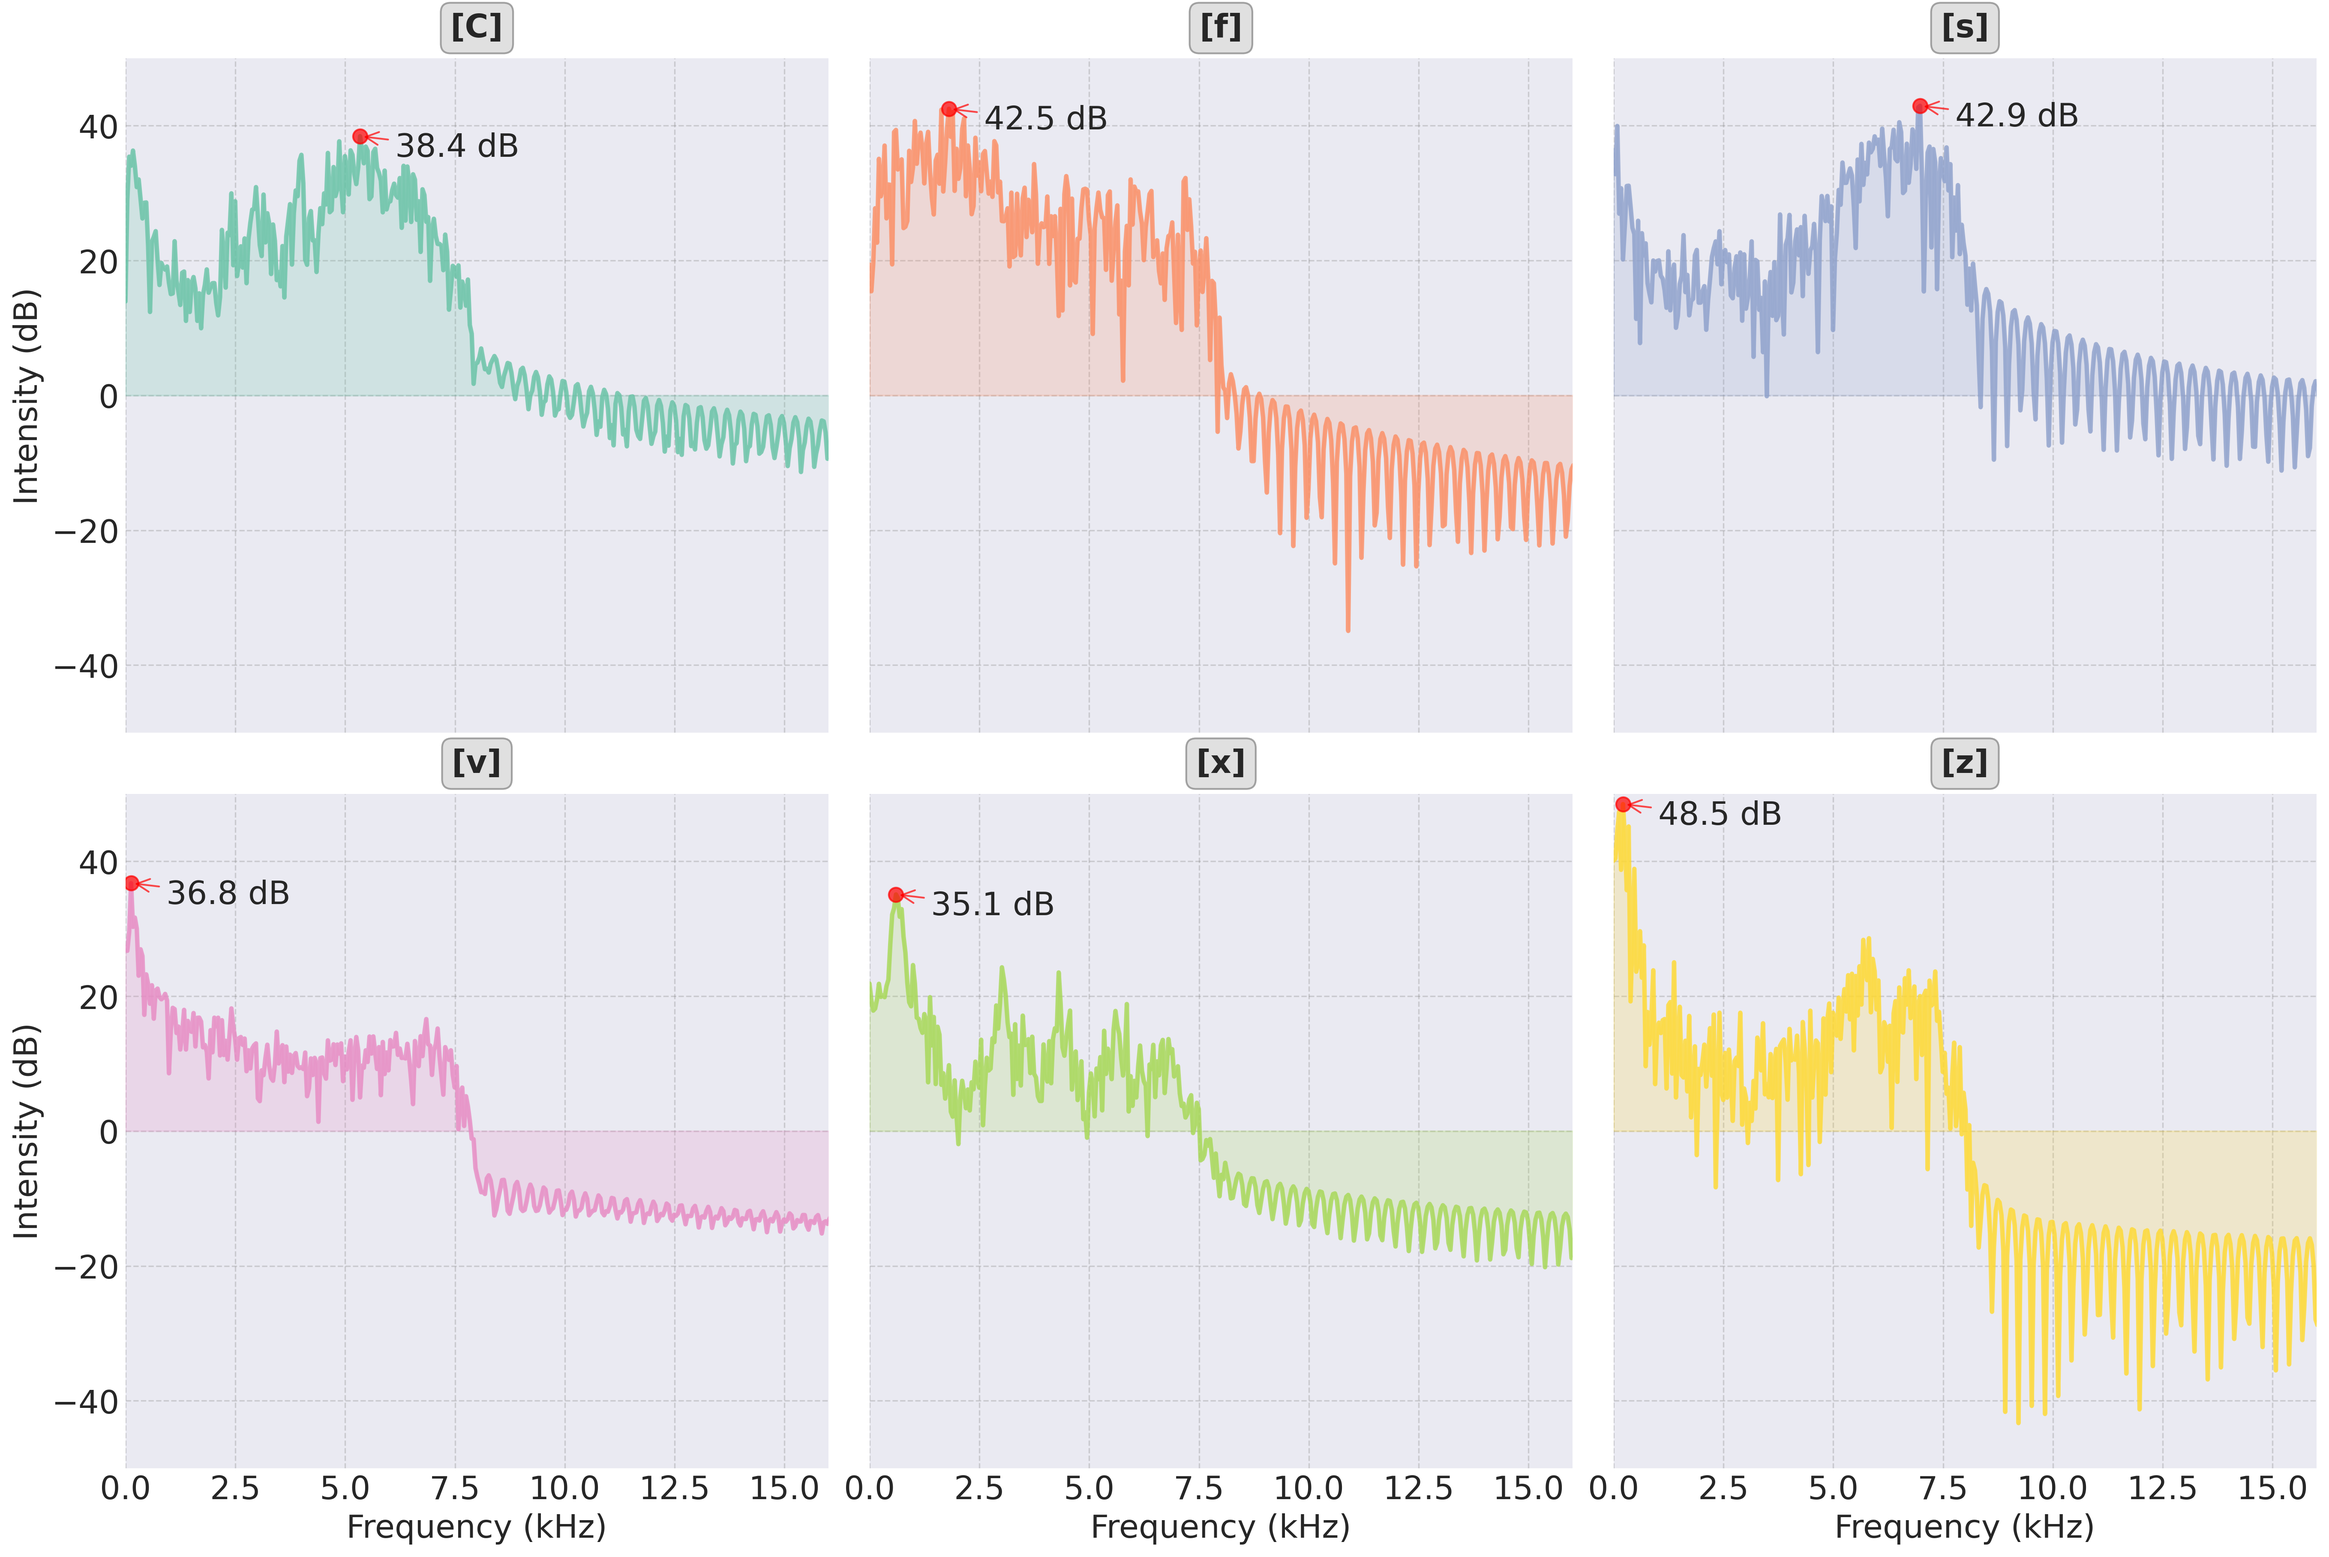
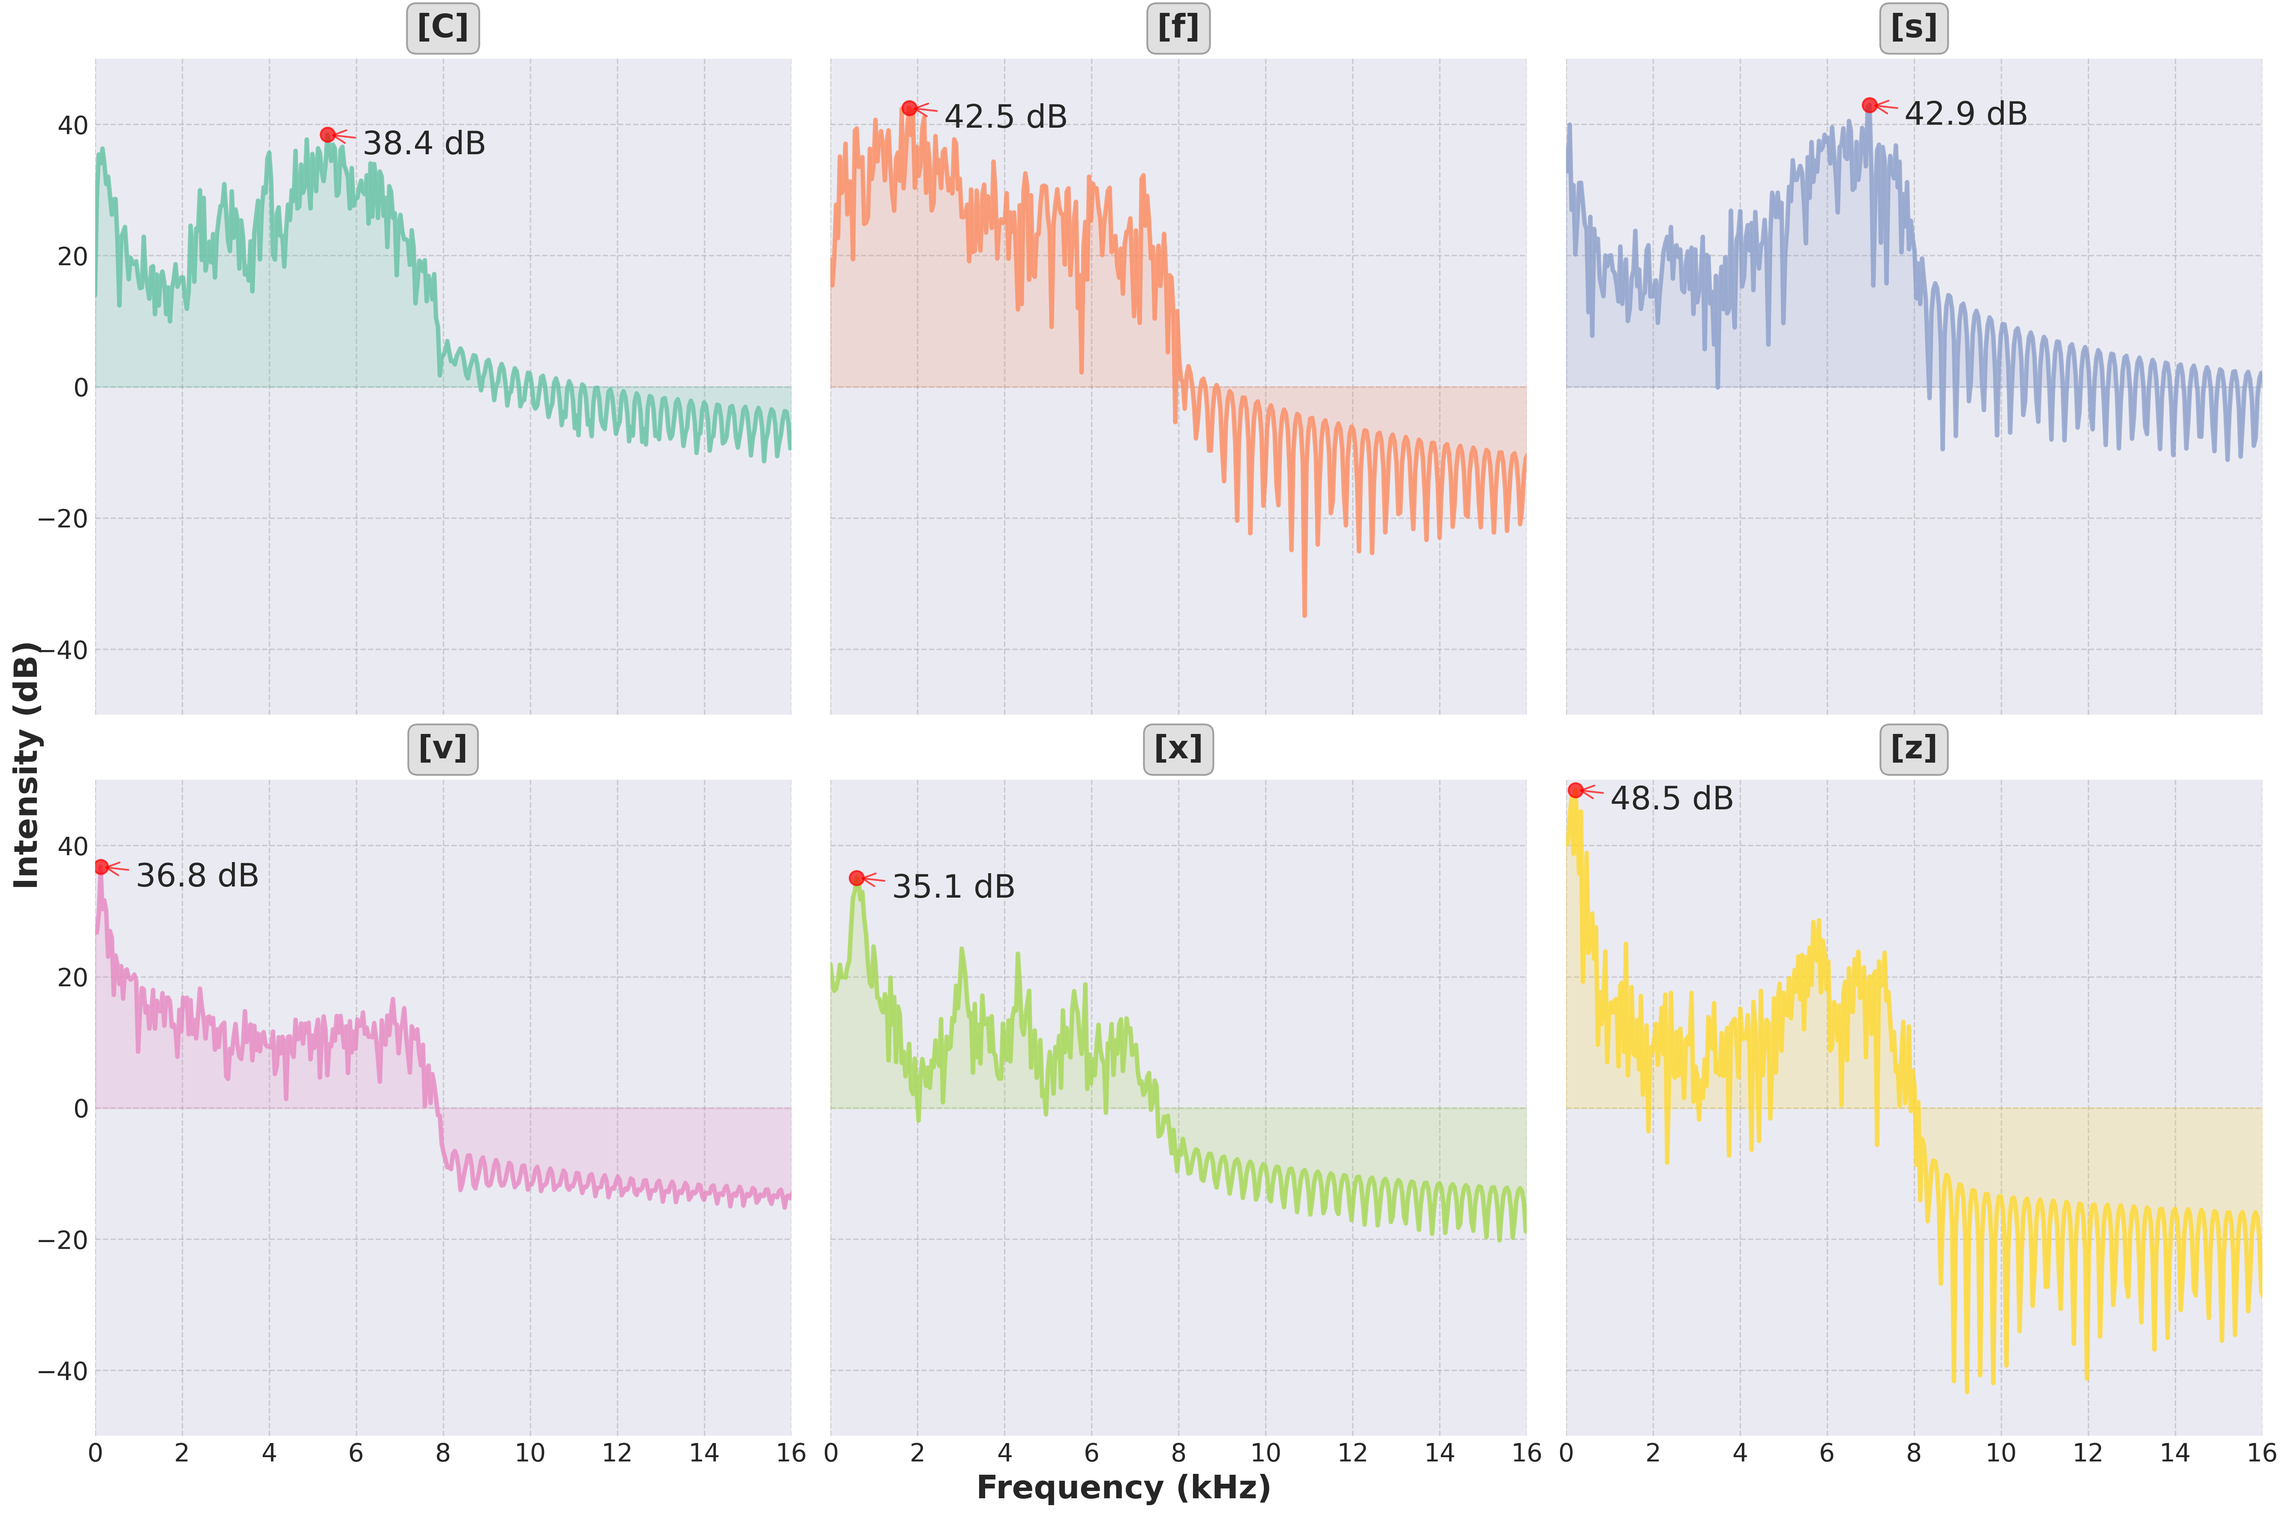
plot fricatives

diff --git a/script/fricative.py b/script/fricative.py
@@ -14,11 +14,12 @@ print(f"Fricatives: {fricatives}")
 colors = sns.color_palette("Set2", len(fricatives))
 fricative_colors = dict(zip(fricatives, colors))
 
-fig, axes = plt.subplots(2, 3, figsize=(18, 12), constrained_layout=True)
+fig, axes = plt.subplots(2, 3, figsize=(18, 12))
 if len(fricatives) > 6:
     fricatives_to_plot = fricatives[:6]
 else:
     fricatives_to_plot = fricatives
+    
 for idx, fricative in enumerate(fricatives_to_plot):
     row = idx // 3
     col = idx % 3
@@ -35,22 +36,20 @@ for idx, fricative in enumerate(fricatives_to_plot):
                                             edgecolor="gray", alpha=0.7))
     
     if row == 1:
-        axes[row, col].set_xlabel('Frequency (kHz)', fontsize=18)
+        axes[row, col].set_xlabel('')
     else:
         axes[row, col].set_xlabel('')
         axes[row, col].set_xticklabels([])
-    
+    if col != 0:
+        axes[row, col].set_ylabel('')
+        axes[row, col].set_yticklabels([])
+    else:
+        axes[row, col].set_ylabel('')
     axes[row, col].set_xlim(0, 16)
     axes[row, col].set_ylim(-50, 50)
     
     axes[row, col].grid(True, alpha=0.3, linestyle='--', color='gray')
-    
-    if col == 0:
-        axes[row, col].set_ylabel('Intensity (dB)', fontsize=18)
-    else:
-        axes[row, col].set_ylabel('')
-        axes[row, col].set_yticklabels([])
-    axes[row, col].tick_params(axis='both', labelsize=18)
+    axes[row, col].tick_params(axis='both', labelsize=14)
 
     max_amp = fricative_data['Amplitude'].max()
     min_amp = fricative_data['Amplitude'].min()
@@ -62,10 +61,14 @@ for idx, fricative in enumerate(fricatives_to_plot):
                            xytext=(max_freq_at_max_amp + 0.8, max_amp - 3),
                            fontsize=18,
                            arrowprops=dict(arrowstyle='->', color='red', alpha=0.7))
+
 for idx in range(len(fricatives_to_plot), 6):
     row = idx // 3
     col = idx % 3
     axes[row, col].set_visible(False)
-# plt.suptitle('Mean FFT Spectra of Fricatives (0-16 kHz)', fontsize=20, fontweight='bold', y=1.02)
+
+fig.supxlabel('Frequency (kHz)', fontsize=18, fontweight='bold', y=0.02)
+fig.supylabel('Intensity (dB)', fontsize=18, fontweight='bold', x=0.02)
+plt.tight_layout()
 plt.savefig("pics/fricatives.png", dpi=300, bbox_inches='tight')
 plt.show()
